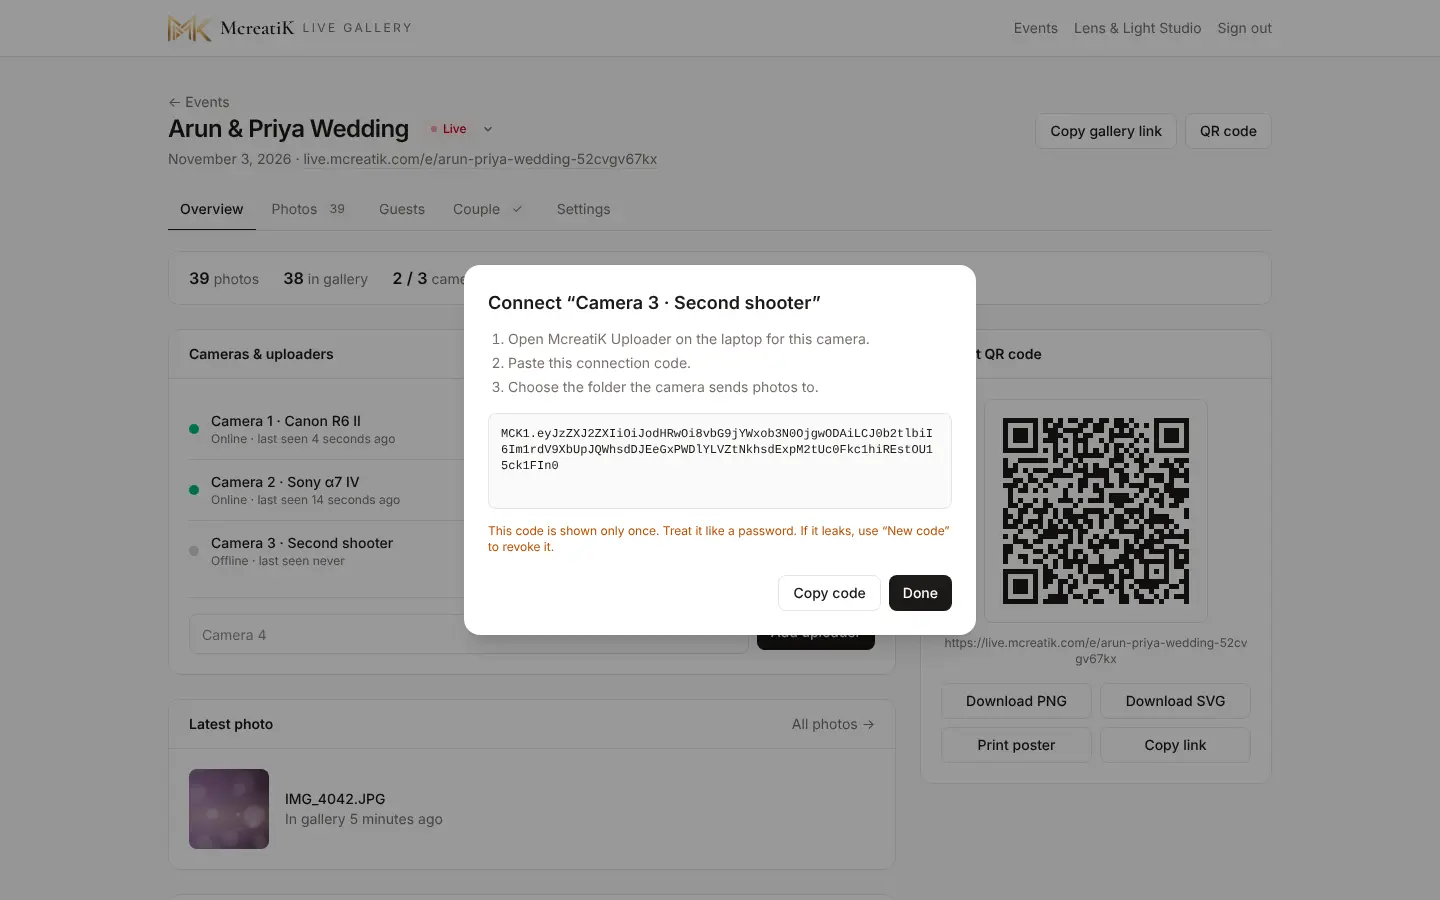
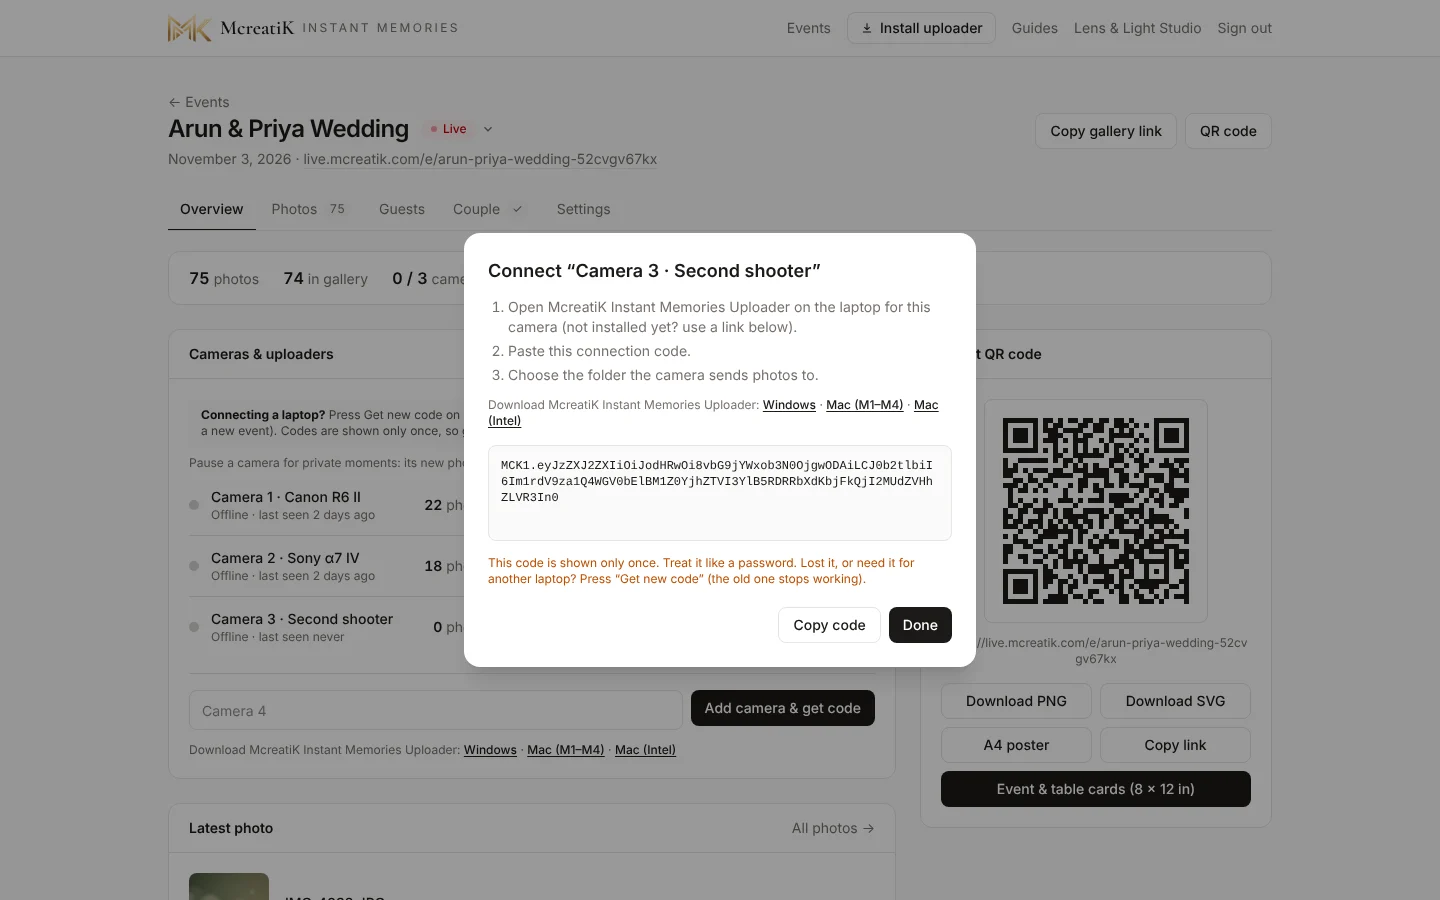
Dashboard: make it clear where a camera's connection code comes from (#72)
* Pay for events online: card, netbanking, UPI and wallet via Razorpay

- Buy events now offers Razorpay Checkout next to the UPI QR. The server sets
  the price, creates the order, checks the checkout signature and the captured
  amount with Razorpay, and adds the events exactly once (also from the
  payment.captured / order.paid webhook, so closing the tab after paying is safe).
- Online payment turns on only when RAZORPAY_KEY_ID, _KEY_SECRET and
  _WEBHOOK_SECRET are set; otherwise the UPI QR flow is unchanged.
- Webhook ignores orders it did not create (the shared account's store payments).
- CSP and Permissions-Policy allow Razorpay Checkout.
- Public policy pages: /pricing (live prices from /api/public/pricing), /terms,
  /refunds, /contact, linked from the dashboard, login page and dialog.
- Docs: studio and admin SOPs, deployment (keys + webhook setup), API.

Claude-Session: https://claude.ai/code/session_01SnNKu4NbaEoNPstDxyZGxY

* UPI QR confirmed automatically: no transaction ID, nothing to check

With Razorpay set up, the UPI QR tab shows a single-use Razorpay QR for the
exact amount (drawn locally from its upi:// link). The dialog asks the server
every 3 s; the server checks the QR's payments with Razorpay's API and adds the
events once. The qr_code.credited webhook does the same, so closing the dialog
after paying is safe. The QR closes when the dialog closes and after 15 min.
The manual UPI ID + UTR flow remains only while Razorpay isn't configured.
[…]

diff --git a/web/src/admin/UploadersPanel.tsx b/web/src/admin/UploadersPanel.tsx
@@ -45,7 +45,7 @@ function CredentialsDialog({ credentials, onClose }: { credentials: UploaderCred
           onFocus={(e) => e.currentTarget.select()}
         />
         <p className="mt-2 text-xs text-amber-700">
-          This code is shown only once. Treat it like a password. If it leaks, use “New code” to revoke it.
+          This code is shown only once. Treat it like a password. Lost it, or need it for another laptop? Press “Get new code” (the old one stops working).
         </p>
         <div className="mt-5 flex justify-end gap-2">
           <Button onClick={copy}>{copied ? 'Copied' : 'Copy code'}</Button>
@@ -102,8 +102,8 @@ export function UploadersPanel({ eventId, uploaders, onChange }: { eventId: stri
 
   const rotate = async (u: UploaderStats) => {
     const ok = await confirm({
-      title: `New code for “${u.name}”?`,
-      body: 'The current code stops working immediately. Paste the new code into the uploader on that laptop.',
+      title: `Get a new code for “${u.name}”?`,
+      body: 'Any earlier code for this camera stops working. Paste the new code into the uploader: in Setup, or with Change event… when moving the laptop to this event.',
       confirmLabel: 'Create new code',
     })
     if (!ok) return
@@ -125,7 +125,13 @@ export function UploadersPanel({ eventId, uploaders, onChange }: { eventId: stri
 
   return (
     <Card title="Cameras & uploaders">
-      {uploaders.length === 0 && <p className="text-sm text-muted">No uploaders yet. Add one per camera.</p>}
+      <p className="mb-2 rounded-lg bg-stone-50 px-3 py-2 text-xs text-stone-600" data-testid="code-hint">
+        <b className="text-ink">Connecting a laptop?</b>{' '}
+        {uploaders.length === 0
+          ? 'Type a camera name below and press Add camera & get code. Paste that code into the uploader (Setup, or Change event… for a new event).'
+          : 'Press Get new code on a camera and paste it into the uploader (Setup, or Change event… for a new event). Codes are shown only once, so get a new one whenever you need it.'}
+      </p>
+      {uploaders.length === 0 && <p className="text-sm text-muted">No cameras yet. Add one per camera.</p>}
       {uploaders.length > 0 && (
         <p className="mb-1 text-xs text-muted">Pause a camera for private moments: its new photos stay on the laptop and never reach the gallery.</p>
       )}
@@ -166,7 +172,7 @@ export function UploadersPanel({ eventId, uploaders, onChange }: { eventId: stri
                 {u.paused ? 'Resume' : 'Pause'}
               </Button>
               <Button variant="ghost" onClick={() => setRenaming({ id: u.id, name: u.name })}>Rename</Button>
-              <Button variant="ghost" onClick={() => rotate(u)}>New code</Button>
+              <Button variant="ghost" onClick={() => rotate(u)}>Get new code</Button>
               <Button variant="ghost" onClick={() => remove(u)}>Remove</Button>
             </div>
             {u.lastError && <p className="w-full text-xs text-red-700">{u.lastError}</p>}
@@ -175,7 +181,7 @@ export function UploadersPanel({ eventId, uploaders, onChange }: { eventId: stri
       </ul>
       <form onSubmit={add} className="mt-4 flex gap-2 border-t border-line pt-4">
         <input className={inputClass} placeholder={`Camera ${uploaders.length + 1}`} value={name} maxLength={60} onChange={(e) => setName(e.target.value)} aria-label="Uploader name" />
-        <Button type="submit" variant="primary" className="shrink-0">Add uploader</Button>
+        <Button type="submit" variant="primary" className="shrink-0">Add camera &amp; get code</Button>
       </form>
       <ErrorText>{error}</ErrorText>
       <div className="mt-3"><DownloadLinks /></div>

diff --git a/web/src/admin/UploadersPanel.test.tsx b/web/src/admin/UploadersPanel.test.tsx
@@ -14,6 +14,18 @@ describe('UploadersPanel', () => {
       'https://github.com/MugundhanG/mcreatik-instant-memories/releases/latest/download/McreatiK-Instant-Memories-Uploader-Mac-Intel.dmg',
     ])
   })
+
+  it('says where the connection code comes from', () => {
+    const { rerender } = render(<UploadersPanel eventId="e1" uploaders={[]} onChange={() => {}} />)
+    expect(screen.getByTestId('code-hint')).toHaveTextContent('press Add camera & get code')
+    expect(screen.getByRole('button', { name: 'Add camera & get code' })).toBeInTheDocument()
+    rerender(<UploadersPanel eventId="e1" uploaders={[{
+      id: 'u1', name: 'Main', status: 'OFFLINE', lastSeenAt: null, deviceIdentifier: null, tokenPrefix: 'mku_abc',
+      photosUploaded: 0, photosReady: 0, queuePending: 0, queueFailed: 0, lastError: null, lastUploadAt: null, paused: false,
+    }]} onChange={() => {}} />)
+    expect(screen.getByTestId('code-hint')).toHaveTextContent('Press Get new code on a camera')
+    expect(screen.getByRole('button', { name: 'Get new code' })).toBeInTheDocument()
+  })
 })
 
 describe('Pause and rename a camera', () => {

diff --git a/web/src/admin/InstallUploaderPage.tsx b/web/src/admin/InstallUploaderPage.tsx
@@ -95,7 +95,7 @@ export default function InstallUploaderPage() {
       <section className="mt-6 rounded-2xl border border-line bg-white p-6">
         <h2 className="text-base font-semibold">After installing</h2>
         <ol className="mt-3 list-decimal space-y-1.5 pl-5 text-sm text-stone-700">
-          <li>Open the event here: <b>Overview → Cameras &amp; uploaders → Add uploader → Copy code</b>.</li>
+          <li>Open the event here: <b>Overview → Cameras &amp; uploaders → Add camera &amp; get code → Copy code (or Get new code on a camera you already added)</b>.</li>
           <li>Open the uploader, press <b>Paste</b>, then <b>Connect</b>.</li>
           <li>Type the <b>Server, Port, User and Password</b> it shows into the camera's FTP settings, and take a test shot.</li>
           <li>More cameras on the same laptop: press <b>+ Add camera</b> in the uploader and use the port it shows.</li>

diff --git a/backend/src/main/resources/docs/sop-studio.md b/backend/src/main/resources/docs/sop-studio.md
@@ -67,10 +67,10 @@ Setting up a new laptop? Press **Install uploader** in the top bar of the dashbo
 
 Every camera needs its own **uploader**. One laptop with the McreatiK Instant Memories Uploader app can serve up to 4 cameras: add the extra cameras in the app with **+ Add camera** (you name each one there), and each appears here by itself. On the laptop, each event gets one folder with a sub-folder per camera.
 
-1. Open the event. On **Overview**, under **Cameras & uploaders**, type a name such as "Camera 1 · Canon R6 II" and press **Add uploader**.
+1. Open the event. On **Overview**, under **Cameras & uploaders**, type a name such as "Camera 1 · Canon R6 II" and press **Add camera & get code**.
 2. A **connection code** appears. **It's shown only once**, so press **Copy code** and paste it into the uploader (see the [Uploader guide](/admin/docs/guide-uploader)). A laptop already used for an earlier event: press **Change event…** in the uploader and paste the new code ([Switching to another event](/admin/docs/guide-uploader#4-switching-to-another-event)).
 
-![Add uploader: the one-time connection code](images/s-add-uploader.webp)
+![Add camera & get code: the one-time connection code](images/s-add-uploader.webp)
 
 3. When the uploader is running, the camera shows **Online** with a green dot and its photo count.
 
@@ -80,7 +80,7 @@ Every camera needs its own **uploader**. One laptop with the McreatiK Instant Me
 ![Cameras: one paused for a private moment](images/s-cameras-paused.webp)
 
 - **Rename:** for example "Main - Karthik" or "Candid - Divya". The name shows here, in the uploader and on its photo folder.
-- **New code:** creates a fresh code if the old one was lost. The old one stops working.
+- **Get new code:** the code is shown only once, so use this whenever you need it again: a lost code, a new laptop, or an event you set up earlier and are moving the laptop to now. The old code stops working.
 - **Remove:** disconnects that camera.
 
 Then set up the camera itself: [Canon EOS R6 Mark II](/admin/docs/guide-canon) · [Sony α7 IV](/admin/docs/guide-sony).

diff --git a/backend/src/main/resources/docs/guide-uploader.md b/backend/src/main/resources/docs/guide-uploader.md
@@ -44,7 +44,7 @@ The first time, the **Setup** window opens:
 
 ![Uploader setup window](images/uploader-setup-empty.webp)
 
-1. **Connection code:** copy the code from the event dashboard (Overview → Cameras & uploaders → Add uploader → Copy code), then press **Paste**.
+1. **Connection code:** copy the code from the event dashboard (Overview → Cameras & uploaders → **Add camera & get code** → **Copy code**; for a camera you already added, **Get new code**), then press **Paste**.
 2. **Folder for photos on this computer:** the default "McreatiK Photos" in your home folder is fine.
 3. **How photos arrive:** keep **"Receive photos from the camera over Wi-Fi"** ticked for Canon or Sony FTP. Untick it only if your camera software already saves into a folder.
 4. Press **Connect**. If something is wrong, the reason appears in red under the form:
@@ -94,7 +94,9 @@ The uploader remembers its event, even after you close it or install an update. 
 ![Change event… is on the right of the event card (also on the Events page)](images/uploader-change-event-button.webp)
 
 1. Check **Waiting** and **Uploading** are both **0**, so every photo has reached the event you just shot.
-2. In the **new** event's dashboard: **Overview → Cameras & uploaders → Add uploader → Copy code**.
+2. In the **new** event's dashboard, go to **Overview → Cameras & uploaders**:
+   - No camera there yet: type a name, press **Add camera & get code**, then **Copy code**.
+   - The camera is already listed (you added it when you created the event): press **Get new code** next to it, then **Copy code**. The dashboard never shows a code again after its pop-up closes, so this is how you get one later.
 3. In the uploader, press **Change event…** (on the event card, or on the **Events** page), then **Paste**, then **Switch event**.
 
 ![Switch to another event: paste the new code](images/uploader-switch-event.webp)

diff --git a/docs/UPLOADER-MACOS.md b/docs/UPLOADER-MACOS.md
@@ -41,7 +41,7 @@ caffeinate -dims java -jar ~/Documents/McreatiK/mcreatik-uploader.jar
 - Keep the Terminal window open (you can minimise it). Closing it closes the uploader.
 
 The first time, the window asks for the **connection code** (copy it from the event dashboard: Overview →
-Cameras & uploaders → Add uploader). Keep **"Receive photos from the camera over Wi-Fi"** ticked and click OK.
+Cameras & uploaders → Add camera & get code). Keep **"Receive photos from the camera over Wi-Fi"** ticked and click OK.
 The default photo folder is **McreatiK Photos** in your home folder.
 
 ## 4. Allow the camera through the firewall

diff --git a/README.md b/README.md
@@ -43,7 +43,7 @@ cd uploader && mvn -q package -DskipTests
 java -jar target/mcreatik-uploader.jar            # window: paste connection code, choose folder
 ```
 
-In the dashboard: **New event → Add uploader** (copy the connection code) → paste it into the uploader → drop JPEGs into the chosen folder → open the gallery link or scan the QR.
+In the dashboard: **New event → Add camera & get code** (copy the connection code) → paste it into the uploader → drop JPEGs into the chosen folder → open the gallery link or scan the QR.
 
 ### Simulate a real event (V1 acceptance test)
 
